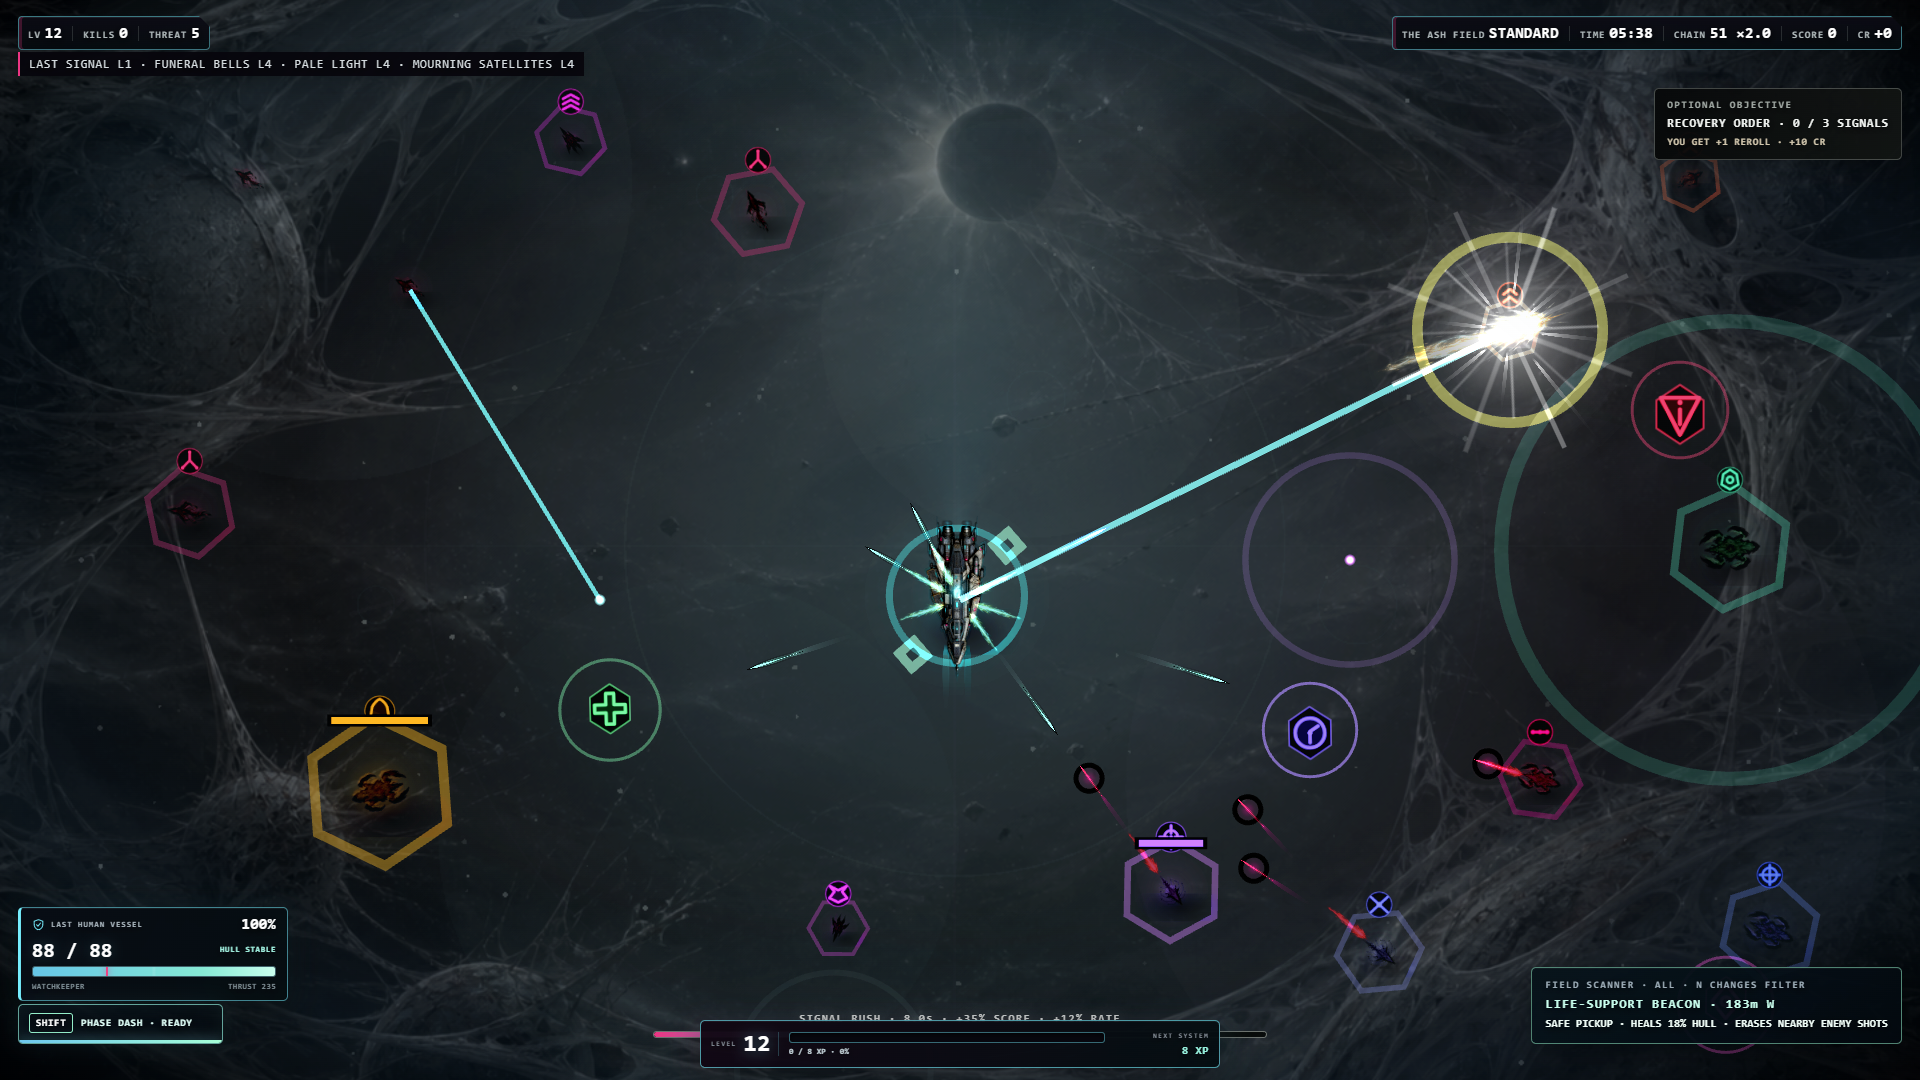
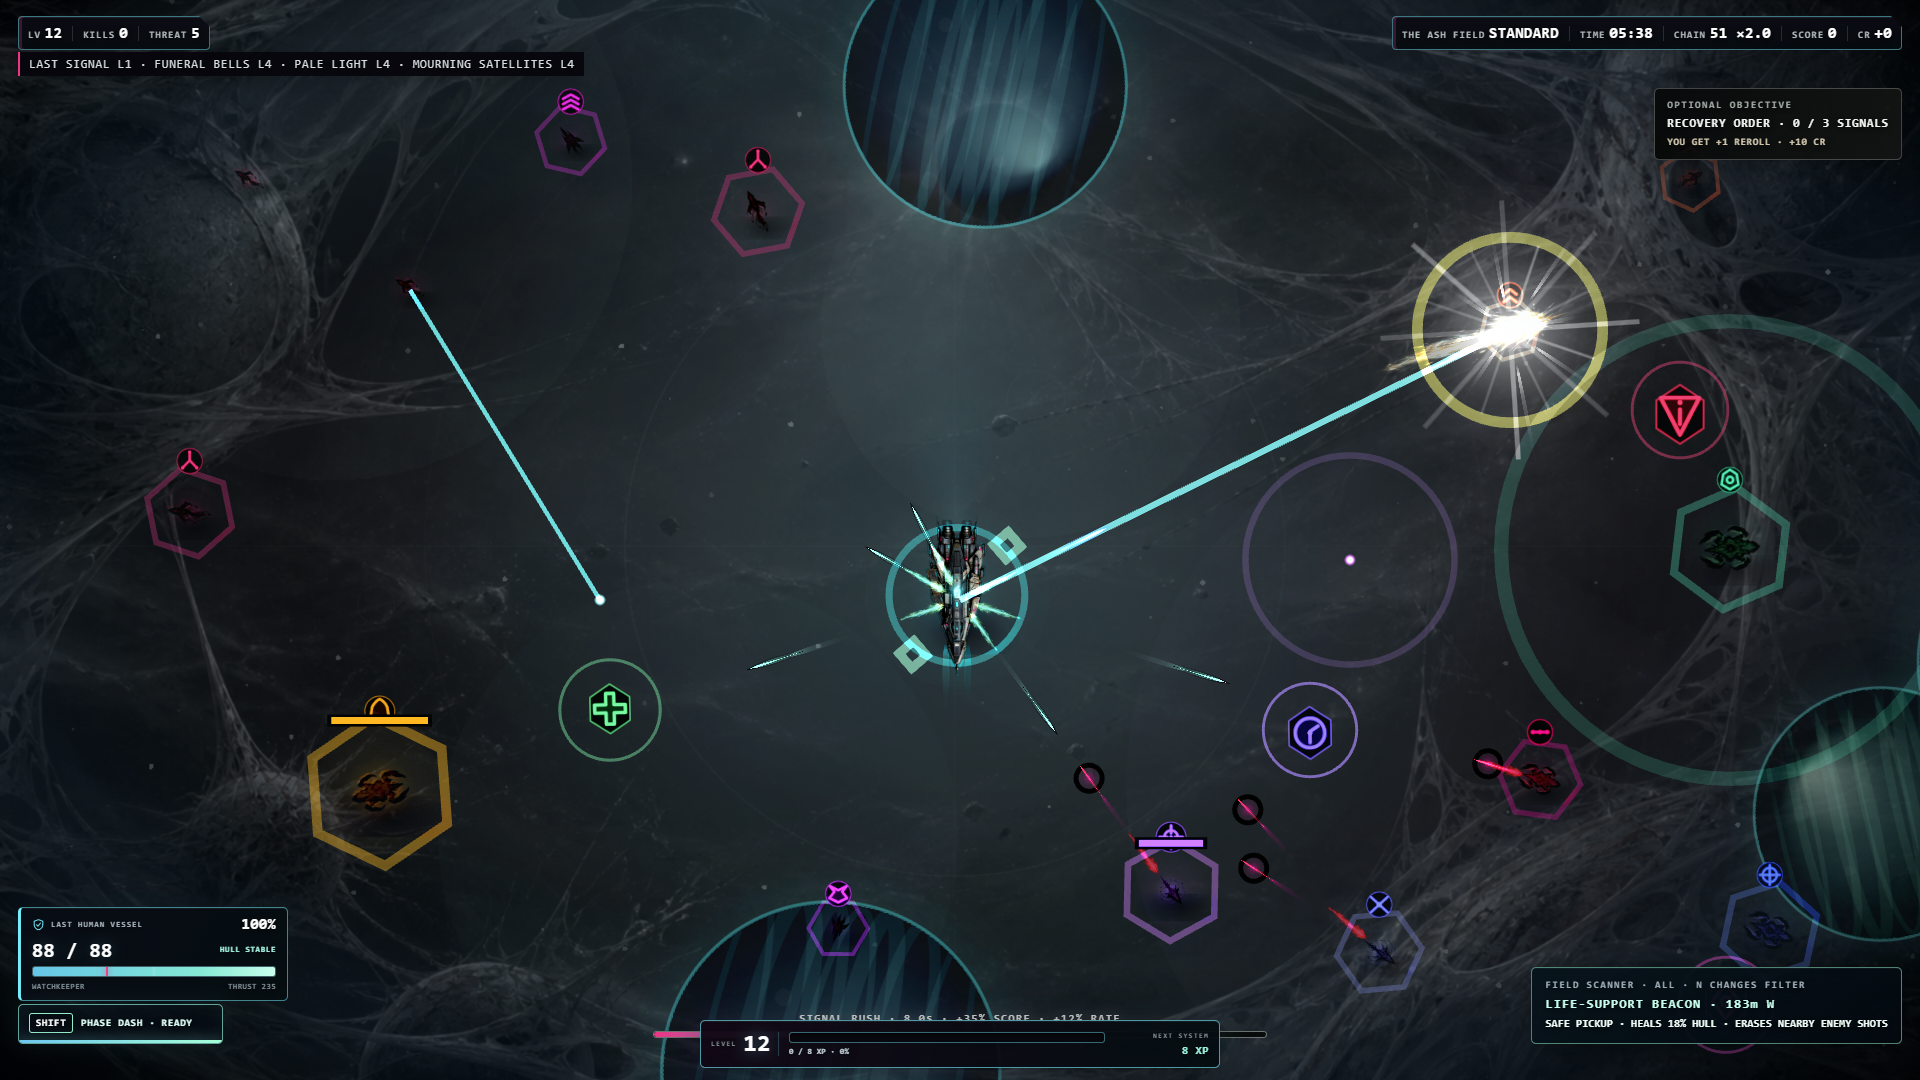
feat: focus launch menu and add planetary scenery

diff --git a/game.js b/game.js
@@ -687,8 +687,8 @@ function cellNoise(x,y,salt=0){let h=Math.imul((x|0)^Math.imul(salt+11,0x45d9f3b
 function worldNodeType(roll){return roll<.23?'repair':roll<.46?'flux':roll<.69?'salvage':roll<.85?'relic':roll<.96?'jammer':'fracture'}
 function generateWorldCell(cx,cy){
   const key=`${cx}:${cy}`;if(state.generatedCells.has(key))return;state.generatedCells.add(key);
-  const siteKinds=['asteroids','wreck','ion','void'],siteKind=siteKinds[Math.floor(cellNoise(cx,cy,1)*siteKinds.length)],siteWx=(cx+.12+cellNoise(cx,cy,2)*.76)*WORLD_CELL_SIZE,siteWy=(cy+.12+cellNoise(cx,cy,3)*.76)*WORLD_CELL_SIZE;
-  state.worldSites.push({key,kind:siteKind,wx:siteWx,wy:siteWy,x:siteWx-state.worldX,y:siteWy-state.worldY,size:46+cellNoise(cx,cy,4)*72,seed:cellNoise(cx,cy,5)});
+  const siteRoll=cellNoise(cx,cy,1),anchoredPlanet=cx===0&&cy===0||cx===1&&cy===0,siteKinds=['asteroids','wreck','ion','void'],siteKind=anchoredPlanet||siteRoll<.13?'planet':siteKinds[Math.floor(cellNoise(cx,cy,11)*siteKinds.length)],siteWx=(cx+.12+cellNoise(cx,cy,2)*.76)*WORLD_CELL_SIZE,siteWy=(cy+.12+cellNoise(cx,cy,3)*.76)*WORLD_CELL_SIZE,size=siteKind==='planet'?165+cellNoise(cx,cy,4)*130:46+cellNoise(cx,cy,4)*72;
+  state.worldSites.push({key,kind:siteKind,wx:siteWx,wy:siteWy,x:siteWx-state.worldX,y:siteWy-state.worldY,size,seed:cellNoise(cx,cy,5)});
   if(cx===0&&cy===0||cellNoise(cx,cy,6)<.18)return;
   const wx=(cx+.18+cellNoise(cx,cy,7)*.64)*WORLD_CELL_SIZE,wy=(cy+.18+cellNoise(cx,cy,8)*.64)*WORLD_CELL_SIZE,type=worldNodeType(cellNoise(cx,cy,9)),meta=WORLD_NODE_TYPES[type];
   state.worldNodes.push({id:`${key}:${type}`,type,wx,wy,x:wx-state.worldX,y:wy-state.worldY,r:type==='jammer'?18:type==='fracture'?19:15,color:meta.color,disposition:meta.disposition,collected:false,active:false,pulse:cellNoise(cx,cy,10)*Math.PI*2});
@@ -1145,7 +1145,7 @@ function draw(){if(!engineReady)return;worldG.clear();glowG.clear();overlayG.cle
   if(!state||state.mode!=='run'){
     const t=performance.now()/1000,x=W*.5+Math.sin(t*.35)*22,y=H*.56+Math.sin(t*.55)*8;drawShipVector(x,y,save.selected||'striker',1.75,-Math.PI/2,false,false);ring(glowG,x,y,62,'#8de9ff',.08,5);return
   }
-  for(const site of state.worldSites||[]){if(!site.active)continue;const pulse=.5+.5*Math.sin(state.time*.45+site.seed*8);if(site.kind==='asteroids'){for(let i=0;i<6;i++){const a=site.seed*12+i*2.19,r=site.size*(.18+(i%3)*.16);circle(worldG,site.x+Math.cos(a)*r,site.y+Math.sin(a)*r,site.size*(.07+(i%2)*.025),'#60717d',.18)}ring(worldG,site.x,site.y,site.size*.58,'#8ca0aa',.12,1)}else if(site.kind==='wreck'){line(worldG,site.x-site.size*.55,site.y+site.size*.18,site.x+site.size*.48,site.y-site.size*.22,'#738b99',.22,3);ring(worldG,site.x-site.size*.12,site.y,site.size*.25,'#9bc5d3',.16,1)}else if(site.kind==='ion'){circle(glowG,site.x,site.y,site.size*.72,'#2d9fbd',.025+.015*pulse);for(let i=0;i<3;i++)ring(worldG,site.x,site.y,site.size*(.28+i*.17)+pulse*4,'#6de5ff',.08+i*.025,1)}else{circle(glowG,site.x,site.y,site.size*.68,'#6c4ac5',.025+.012*pulse);for(let i=0;i<4;i++)ring(worldG,site.x,site.y,site.size*(.25+i*.12),'#9b7cff',.06+i*.018,1)}}
+  for(const site of state.worldSites||[]){if(!site.active)continue;const pulse=.5+.5*Math.sin(state.time*.45+site.seed*8);if(site.kind==='planet'){circle(glowG,site.x-site.size*.10,site.y-site.size*.10,site.size*.56,'#35e7ff',.028);circle(worldG,site.x,site.y,site.size*.48,'#070b11',.92);circle(worldG,site.x-site.size*.11,site.y-site.size*.09,site.size*.41,site.seed>.5?'#32424d':'#3c344d',.28);circle(worldG,site.x+site.size*.12,site.y+site.size*.06,site.size*.43,'#05070b',.70);ring(worldG,site.x,site.y,site.size*.49,site.seed>.66?'#ff3d91':'#35e7ff',.18,1.2)}else if(site.kind==='asteroids'){for(let i=0;i<6;i++){const a=site.seed*12+i*2.19,r=site.size*(.18+(i%3)*.16);circle(worldG,site.x+Math.cos(a)*r,site.y+Math.sin(a)*r,site.size*(.07+(i%2)*.025),'#60717d',.18)}ring(worldG,site.x,site.y,site.size*.58,'#8ca0aa',.12,1)}else if(site.kind==='wreck'){line(worldG,site.x-site.size*.55,site.y+site.size*.18,site.x+site.size*.48,site.y-site.size*.22,'#738b99',.22,3);ring(worldG,site.x-site.size*.12,site.y,site.size*.25,'#9bc5d3',.16,1)}else if(site.kind==='ion'){circle(glowG,site.x,site.y,site.size*.72,'#2d9fbd',.025+.015*pulse);for(let i=0;i<3;i++)ring(worldG,site.x,site.y,site.size*(.28+i*.17)+pulse*4,'#6de5ff',.08+i*.025,1)}else{circle(glowG,site.x,site.y,site.size*.68,'#6c4ac5',.025+.012*pulse);for(let i=0;i<4;i++)ring(worldG,site.x,site.y,site.size*(.25+i*.12),'#9b7cff',.06+i*.018,1)}}
   for(const node of state.worldNodes||[]){if(!node.active||node.collected)continue;const pulse=.5+.5*Math.sin(state.time*2.1+node.pulse),radius=node.r+9+pulse*5;circle(glowG,node.x,node.y,node.r*2.2,node.color,node.disposition==='hazard'?.12:.075);ring(glowG,node.x,node.y,radius+4,node.color,.10+pulse*.08,5);ring(worldG,node.x,node.y,radius,node.color,.46+pulse*.30,node.disposition==='hazard'?2:1.2);diamond(worldG,node.x,node.y,node.disposition==='hazard'?12:10,node.color,.94);diamond(worldG,node.x,node.y,5,'#071017',1)}
   for(const o of state.orbs){const c=o.r>4?'#ffd27a':'#62f4dd';circle(glowG,o.x,o.y,o.r*2.3,c,.12);diamond(worldG,o.x,o.y,o.r>4?5.3:3.2,c,.95);circle(worldG,o.x,o.y,1.2,'#ffffff',.9)}
   for(const c of state.caches){const reliquary=c.rarity==='RELIQUARY',col=reliquary?'#ff4e9d':c.rarity==='PARADOX'?'#bd9cff':c.rarity==='OMEGA'?'#ffffff':c.rarity==='RARE'?'#ffd27a':'#8de9ff';ring(glowG,c.x,c.y,reliquary?20:13,col,reliquary?.36:.18,reliquary?8:5);diamond(worldG,c.x,c.y,reliquary?12:8,col,.9);diamond(worldG,c.x,c.y,reliquary?6:4,'#071017',1);circle(worldG,c.x,c.y,reliquary?2:1.2,col,1)}

diff --git a/index.html b/index.html
@@ -100,22 +100,24 @@
           </div>
           <div class="rosterHeading"><h2>FRAME BAY</h2><span id="frameRosterCount"></span></div>
           <div id="shipGrid" class="shipGrid"></div>
-          <section class="releaseOverview" aria-labelledby="releaseOverviewTitle">
-            <div class="releaseOverviewHeading">
-              <div><span>CONTENT AT A GLANCE</span><h2 id="releaseOverviewTitle">BUILD, SURVIVE, EVOLVE</h2></div>
-              <p><b>OFFLINE</b><i>NO ADS</i><i>NO MICROTRANSACTIONS</i></p>
+          <details class="releaseOverview" aria-labelledby="releaseOverviewTitle">
+            <summary><span>GAME CONTENT</span><b id="releaseOverviewTitle">OPTIONAL OVERVIEW</b><i>EXPAND</i></summary>
+            <div class="releaseOverviewBody">
+              <div class="releaseOverviewHeading">
+                <div><span>CONTENT AT A GLANCE</span><h2>BUILD, SURVIVE, EVOLVE</h2></div>
+                <p><b>OFFLINE</b><i>NO ADS</i><i>NO MICROTRANSACTIONS</i></p>
+              </div>
+              <div class="releaseMetrics">
+                <div data-tone="frame" title="Ten frames with different weapons and traits"><b id="contentFrameCount">10</b><span>UNIQUE FRAMES</span></div>
+                <div data-tone="weapon" title="Every weapon system can evolve"><b id="contentWeaponCount">11</b><span>EVOLVING WEAPONS</span></div>
+                <div data-tone="enemy" title="Thirteen enemy roles plus boss encounters"><b id="contentEnemyCount">13</b><span>ENEMY TYPES</span></div>
+                <div data-tone="link" title="Discover interactions between compatible upgrades"><b id="contentLinkCount">9</b><span>BUILD LINKS</span></div>
+                <div data-tone="route" title="Four sectors followed by an endless Ascension mode"><b id="contentSectorCount">4</b><span>SECTORS + ENDLESS</span></div>
+              </div>
             </div>
-            <div class="releaseMetrics">
-              <div data-tone="frame" title="Ten frames with different weapons and traits"><b id="contentFrameCount">10</b><span>UNIQUE FRAMES</span></div>
-              <div data-tone="weapon" title="Every weapon system can evolve"><b id="contentWeaponCount">11</b><span>EVOLVING WEAPONS</span></div>
-              <div data-tone="enemy" title="Thirteen enemy roles plus boss encounters"><b id="contentEnemyCount">13</b><span>ENEMY TYPES</span></div>
-              <div data-tone="link" title="Discover interactions between compatible upgrades"><b id="contentLinkCount">9</b><span>BUILD LINKS</span></div>
-              <div data-tone="route" title="Four sectors followed by an endless Ascension mode"><b id="contentSectorCount">4</b><span>SECTORS + ENDLESS</span></div>
-            </div>
-          </section>
+          </details>
         </div>
         <div class="sideMenu">
-          <div class="menuFlow" aria-label="Deployment steps"><span><b>1</b> PICK SHIP</span><span><b>2</b> SET RUN</span><span><b>3</b> SURVIVE</span></div>
           <div class="sectionHeading"><div><span>DEPLOYMENT</span><h2>MISSION SETUP</h2></div><button id="recommendedSetupBtn" class="recommendedSetupBtn" title="Restore the balanced first-run route">RECOMMENDED SETUP</button></div>
           <div class="runOption difficultyOption">
             <div class="runOptionHeader"><span><svg class="uiIcon optionIcon"><use href="#icon-threat"/></svg> DIFFICULTY</span><i>THREAT</i></div>
@@ -146,10 +148,12 @@
             <button id="startBtn" class="primary" aria-keyshortcuts="Enter"><svg class="uiIcon"><use href="#icon-launch"/></svg><span>START RUN</span><kbd>ENTER</kbd></button>
             <button id="researchBtn"><svg class="uiIcon"><use href="#icon-research"/></svg><span>RESEARCH</span></button>
             <button id="operationsBtn"><svg class="uiIcon"><use href="#icon-operations"/></svg><span>OPERATIONS</span></button>
-            <button id="achievementsBtn"><svg class="uiIcon"><use href="#icon-achievements"/></svg><span>ACHIEVEMENTS</span></button>
             <button id="codexBtn"><svg class="uiIcon"><use href="#icon-codex"/></svg><span>CODEX / STATS</span></button>
             <button id="settingsBtn"><svg class="uiIcon"><use href="#icon-settings"/></svg><span>SETTINGS</span></button>
-            <button id="briefingMenuBtn"><svg class="uiIcon"><use href="#icon-codex"/></svg><span>HOW TO PLAY</span></button>
+            <details class="secondaryActions">
+              <summary>MORE OPTIONS</summary>
+              <div><button id="achievementsBtn"><svg class="uiIcon"><use href="#icon-achievements"/></svg><span>ACHIEVEMENTS</span></button><button id="briefingMenuBtn"><svg class="uiIcon"><use href="#icon-codex"/></svg><span>HOW TO PLAY</span></button></div>
+            </details>
             <button id="supportBtn" class="hidden">SUPPORT DEVELOPMENT</button>
           </div>
         </div>

diff --git a/styles.css b/styles.css
@@ -469,6 +469,20 @@ button:hover:not(:disabled){border-color:rgba(195,190,140,.78);background:linear
 #titleScreen .launchSummary i{grid-row:2;grid-column:1/-1;min-width:0;font-size:calc(8.5px * var(--ui-scale));color:#bab5bd}
 #titleScreen .footerHelp{font-size:calc(8.4px * var(--ui-scale));color:#8d939a}
 #titleScreen .footerHelp kbd{font-size:calc(8px * var(--ui-scale))}
+
+/* Focused launch flow: essential choices stay visible; secondary detail is opt-in. */
+#titleScreen .menuColumns{grid-template-columns:minmax(0,2.45fr) minmax(336px,.92fr);gap:18px}#titleScreen .frameStage{height:248px}
+#titleScreen .shipGrid{display:grid;grid-template-columns:none;grid-auto-flow:column;grid-auto-columns:minmax(168px,1fr);gap:7px;max-width:100%;overflow-x:auto;overflow-y:hidden;padding:1px 1px 8px;scroll-snap-type:x proximity;scrollbar-width:thin;scrollbar-color:rgba(53,231,255,.55) rgba(8,9,13,.9)}
+#titleScreen .shipGrid::-webkit-scrollbar{height:6px}#titleScreen .shipGrid::-webkit-scrollbar-track{background:rgba(8,9,13,.9);border-radius:4px}#titleScreen .shipGrid::-webkit-scrollbar-thumb{background:linear-gradient(90deg,#ff3d91,#35e7ff);border-radius:4px}
+#titleScreen .shipCard{height:116px;scroll-snap-align:start}#titleScreen .shipName{font-size:calc(12px * var(--ui-scale));color:#f3eff4}#titleScreen .shipCardRole{font-size:calc(8.8px * var(--ui-scale));color:#bbb5bf}#titleScreen .shipCardStatus{font-size:calc(8.3px * var(--ui-scale));color:#aaa3ad}
+#titleScreen .releaseOverview{margin-top:5px;padding:0;border:1px solid rgba(53,231,255,.24);border-radius:5px;background:rgba(4,9,13,.86);box-shadow:none}
+#titleScreen .releaseOverview>summary{display:grid;grid-template-columns:auto 1fr auto;align-items:center;gap:10px;min-height:34px;padding:8px 10px;cursor:pointer;list-style:none;font:800 calc(8px * var(--ui-scale))/1 var(--mono);letter-spacing:.10em;color:#a9a4ae}#titleScreen .releaseOverview>summary::-webkit-details-marker{display:none}#titleScreen .releaseOverview>summary span{color:#6beaff}#titleScreen .releaseOverview>summary b{color:#ece8ed}#titleScreen .releaseOverview>summary i{font-style:normal;color:#7d7882}#titleScreen .releaseOverview[open]>summary{border-bottom:1px solid rgba(53,231,255,.18)}#titleScreen .releaseOverview[open]>summary i{color:#62ead5}
+#titleScreen .releaseOverviewBody{padding:8px 9px 9px}#titleScreen .releaseOverviewHeading{margin-bottom:6px}
+#titleScreen .sideMenu{padding-left:18px}#titleScreen .sectionHeading{margin-bottom:10px}
+#titleScreen .runOption{margin-bottom:6px;padding:10px 10px 9px}#titleScreen .runOption .stepValue{min-height:38px;font-size:calc(13px * var(--ui-scale))}#titleScreen .runOption .stepArrow{min-height:38px}#titleScreen .optionDetail{margin-top:7px!important;font-size:calc(9.5px * var(--ui-scale))!important;color:#d0cbd3!important}
+#titleScreen .menuStack{gap:7px;margin-top:9px}#titleScreen .menuStack button{min-height:38px;font-size:calc(9.5px * var(--ui-scale))}#titleScreen .menuStack .primary{min-height:49px;font-size:calc(12px * var(--ui-scale))}
+#titleScreen .secondaryActions{grid-column:1/-1;border:1px solid rgba(112,94,121,.28);border-radius:4px;background:rgba(7,7,11,.76)}#titleScreen .secondaryActions>summary{padding:9px 11px;cursor:pointer;list-style:none;text-align:center;font:800 calc(8.5px * var(--ui-scale))/1 var(--mono);letter-spacing:.10em;color:#9c97a1}#titleScreen .secondaryActions>summary::-webkit-details-marker{display:none}#titleScreen .secondaryActions[open]>summary{border-bottom:1px solid rgba(112,94,121,.24);color:#d7d2da}#titleScreen .secondaryActions>div{display:grid;grid-template-columns:1fr 1fr;gap:7px;padding:7px}
+@media(max-width:1050px){#titleScreen .menuColumns{grid-template-columns:1fr}#titleScreen .shipGrid{grid-auto-columns:minmax(176px,24%)}}
 .releaseOverviewHeading span{font-size:calc(7.4px * var(--ui-scale));color:#83f3ff}.releaseOverviewHeading h2{font-size:calc(10.5px * var(--ui-scale))}.releaseOverviewHeading p{font-size:calc(7.2px * var(--ui-scale));color:#a2a6ae}
 .releaseMetrics>div{display:grid;grid-template-columns:auto minmax(0,1fr);align-items:center;gap:7px;min-height:38px;padding:6px 8px}.releaseMetrics b{font-size:calc(16px * var(--ui-scale))}.releaseMetrics span{margin:0;font-size:calc(8px * var(--ui-scale));line-height:1.2;letter-spacing:.055em;color:#f1edf3}
 

diff --git a/tests/smoke.js b/tests/smoke.js
@@ -66,7 +66,7 @@ vm.runInContext(`
   const travelEnemy=spawnEnemy('scout',false,{x:state.p.x+100,y:state.p.y}); state.p.x=CAMERA_SAFE.right+25; const relativeX=travelEnemy.x-state.p.x,worldBefore=state.worldX,shift=followWorldCamera();
   if(shift.x>=0||Math.abs(state.p.x-CAMERA_SAFE.right)>.001||Math.abs((travelEnemy.x-state.p.x)-relativeX)>.001||state.worldX===worldBefore) throw new Error('continuous world camera failed');
   if(!Number.isFinite(state.worldX)||!Number.isFinite(state.worldY)) throw new Error('world travel coordinates are invalid');
-  if(state.generatedCells.size<20||!state.worldSites.length||!state.worldNodes.length) throw new Error('procedural world did not initialize');
+  if(state.generatedCells.size<20||!state.worldSites.length||!state.worldNodes.length||!state.worldSites.some(site=>site.kind==='planet'&&site.active)) throw new Error('procedural world or visible planetary scenery did not initialize');
   if(worldNodeType(.99)!=='fracture'||worldNodeType(.50)==='fracture') throw new Error('rare Time Fracture distribution failed');generateWorldCell(-8,8);if(state.worldNodes.some(node=>node.type==='archive')) throw new Error('retired quote pickup still appears in the procedural field');
   const cellsBefore=state.generatedCells.size; state.worldX+=WORLD_CELL_SIZE*3; updateWorldGeneration(); if(state.generatedCells.size<=cellsBefore) throw new Error('procedural world did not expand beyond the starting view');
   state.worldX=worldBefore; updateWorldGeneration(); updateNavigationHud();const visibleSignal=nearestWorldNode();if(document.getElementById('navigationSignal').classList.contains('hidden')||!visibleSignal||!document.getElementById('navigationSignalEffect').textContent.includes(WORLD_NODE_TYPES[visibleSignal.node.type].tag)) throw new Error('exploration navigation signal is unclear or hidden');
